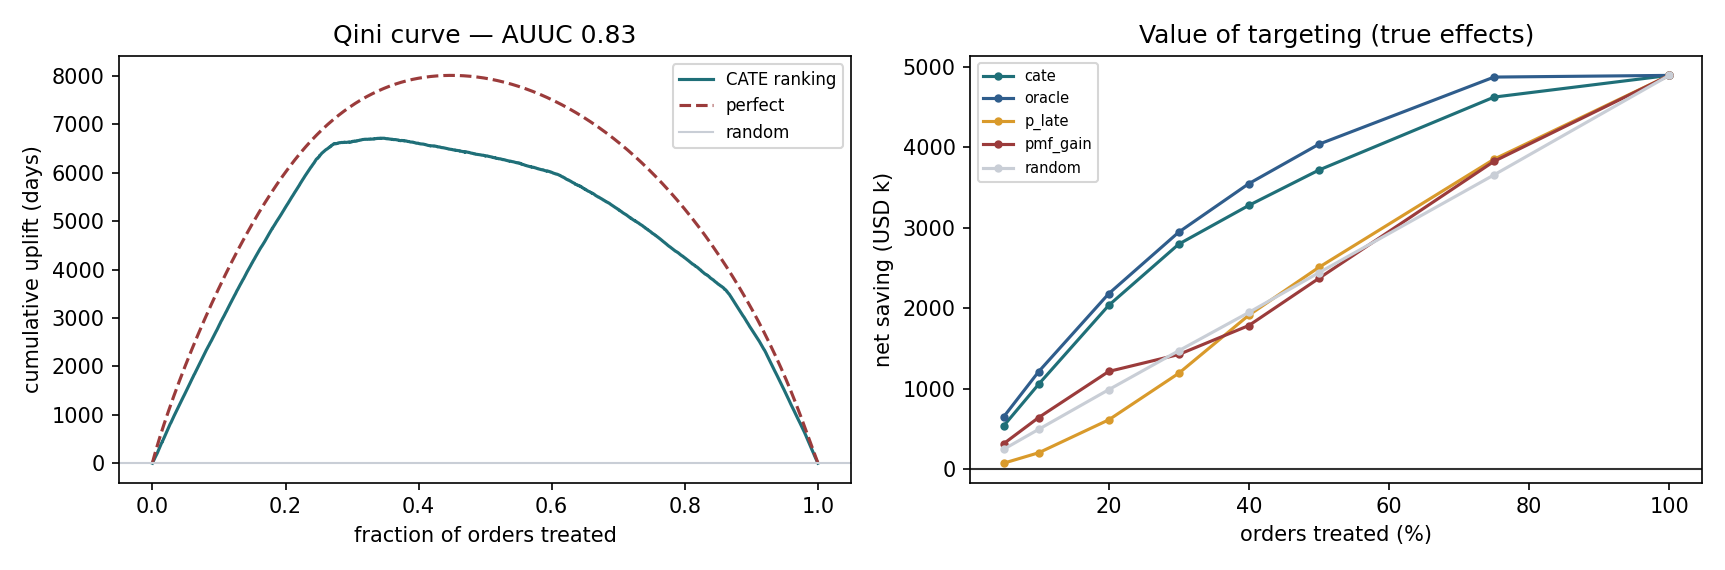
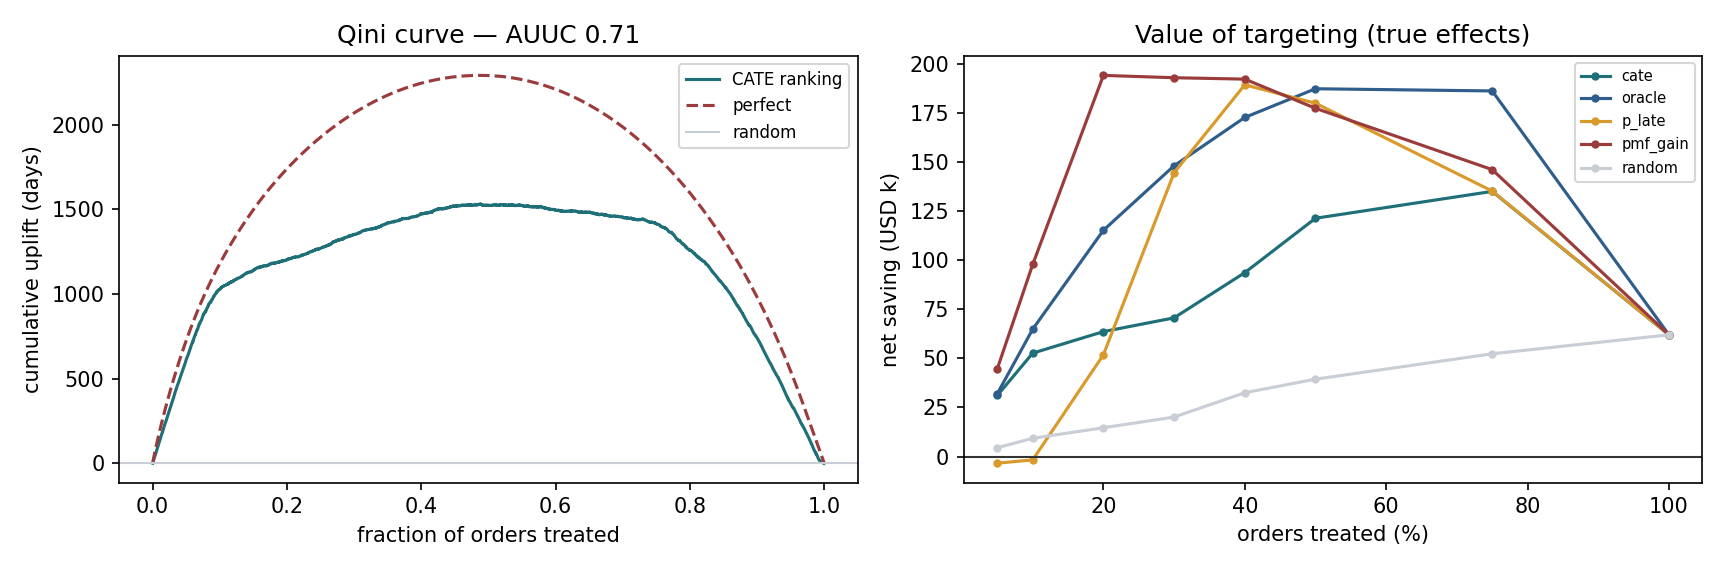
fix: A/B 负净收益不上线，uplift 用训练窗编码器

diff --git a/scripts/uplift_analysis.py b/scripts/uplift_analysis.py
@@ -89,18 +89,22 @@ def main() -> int:
     bundle = scoring.load_bundle(args.bundle)
     penalty = float(bundle["params"]["penalty"] if args.penalty is None else args.penalty)
 
-    df = pipeline.load_orders(str(pipeline.find_data(args.data)))
-    features, target = pipeline.build_features(df)
+    df = pipeline.to_order_level(pipeline.load_orders(str(pipeline.find_data(args.data))))
+    # 编码器只在训练窗口拟合；否则测试期新类别会被提前看到。
+    n = len(df)
+    train_end = int(n * 0.70)
+    encoders = pipeline.fit_encoders(df.iloc[:train_end])
+    features, target = pipeline.build_features(df, encoders)
     split = pipeline.time_split(features, target)
 
     train = split.train_index
     test = split.test_index
-    X_train = features.iloc[train].to_numpy()
-    X_test = features.iloc[test].to_numpy()
+    X_train = split.X_train
+    X_test = split.X_test
     df_train = df.iloc[train]
     df_test = df.iloc[test]
 
-    high_value_threshold = float(np.quantile(df["Order Item Total"], 0.75))
+    high_value_threshold = float(np.quantile(df_train["Order Item Total"], 0.75))
     effect_train = true_effect(df_train, high_value_threshold)
     effect_test = true_effect(df_test, high_value_threshold)
 
@@ -114,7 +118,7 @@ def main() -> int:
     model = uplift.fit_t_learner(X_train, treated_train, outcome_train)
     cate = model.predict_cate(X_test)
 
-    p_late = bundle["binary"].predict_proba(split.X_test)[:, 1]
+    p_late = bundle["binary"].predict_proba(X_test)[:, 1]
     gain = pmf_gain(bundle, df_test, penalty, args.action_cost)
     rng = np.random.default_rng(args.seed)
     scores = {

diff --git a/tests/test_ab_analysis.py b/tests/test_ab_analysis.py
@@ -78,3 +78,19 @@ class TestNoModeFallback(unittest.TestCase):
                              express_cost=100.0, simulated=False)
         self.assertAlmostEqual(float(by.iloc[0]["net_value_per_order"]), 20.0, delta=2.0)
         self.assertEqual(by.iloc[0]["decision"], "not evaluated (no break-even)")
+
+
+class TestNegativeNetValueGate(unittest.TestCase):
+    def test_effect_above_break_even_but_net_value_negative(self):
+        # 99% 的对照订单本来就不晚；缩短 0.6 天只救到极少数订单，
+        # 扣掉 $100 加急费后净收益为负，不能因为 CI 过回本点就上线。
+        frame = pd.DataFrame(
+            {
+                "delay_days": [0.0] * 99 + [10.0] + [-0.5] * 100,
+                "treated": [0] * 100 + [1] * 100,
+            }
+        )
+        _, by = ab.summarise(frame, break_even={"all": 0.01}, penalty=200.0,
+                             express_cost=100.0, simulated=False)
+        self.assertLess(float(by.iloc[0]["net_value_per_order"]), 0)
+        self.assertEqual(by.iloc[0]["decision"], "do not roll out (negative net value)")

diff --git a/scripts/ab_analysis.py b/scripts/ab_analysis.py
@@ -116,6 +116,11 @@ def summarise(
         upper_bounds.append(experiment.net_value(row["reduction"], penalty, express_cost))
     by_mode["net_value_per_order"] = net_values
     by_mode["net_value_upper_bound"] = upper_bounds
+    # 效应 CI 过回本点，不代表扣掉行动成本后还赚钱；净收益为负时不能建议上线。
+    by_mode["decision"] = [
+        "do not roll out (negative net value)" if d == "roll out" and v <= 0 else d
+        for d, v in zip(by_mode["decision"], by_mode["net_value_per_order"])  # noqa: B905
+    ]
     if simulated and "true_effect" in frame.columns:
         truth = frame.groupby("shipping_mode")["true_effect"].first()
         by_mode["true_effect"] = by_mode["shipping_mode"].map(truth)
